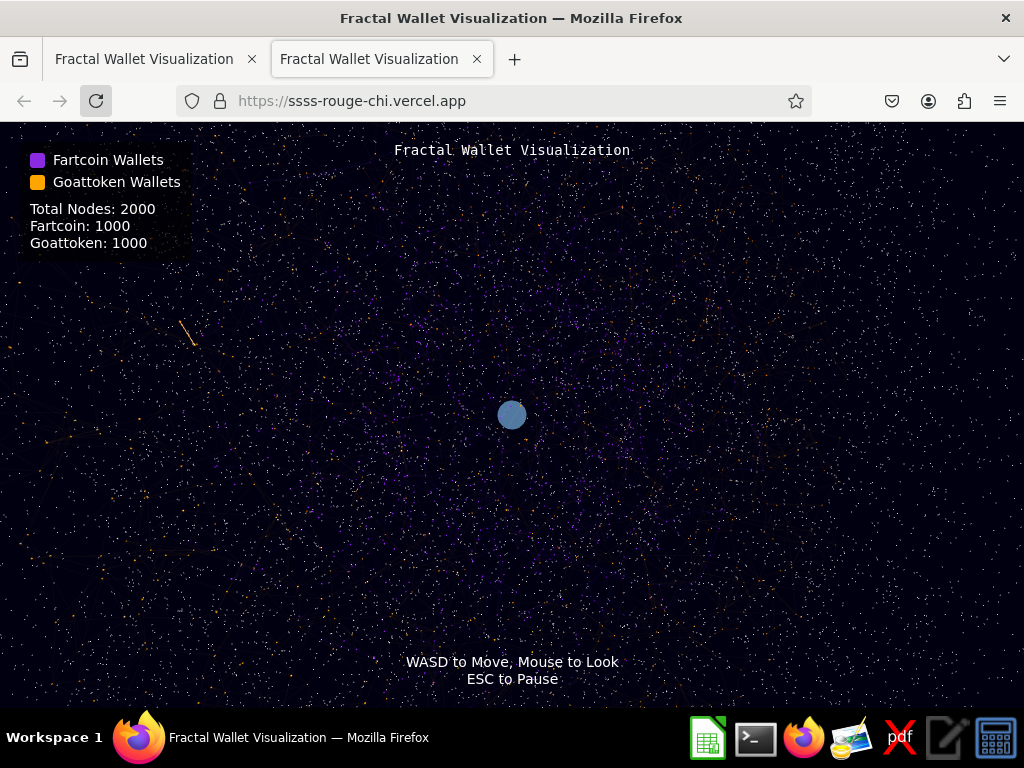
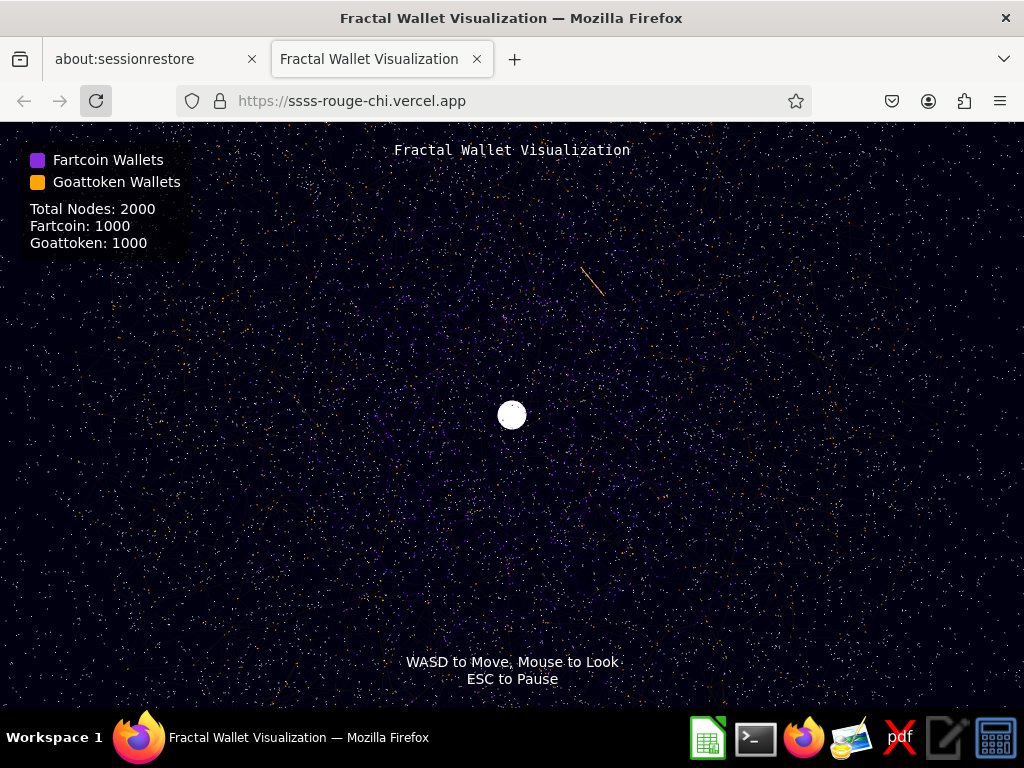
fix: replace flat white core with emissive glowing orb

diff --git a/main.js b/main.js
@@ -2,6 +2,10 @@
 import * as THREE from 'three';
 import { OrbitControls } from 'three/examples/jsm/controls/OrbitControls.js';
 import { FlyControls } from 'three/examples/jsm/controls/FlyControls.js';
+import { EffectComposer } from 'three/examples/jsm/postprocessing/EffectComposer.js';
+import { RenderPass } from 'three/examples/jsm/postprocessing/RenderPass.js';
+import { UnrealBloomPass } from 'three/examples/jsm/postprocessing/UnrealBloomPass.js';
+import { ShaderPass } from 'three/examples/jsm/postprocessing/ShaderPass.js';
 import { loadWalletData } from './dataLoader.js';
 import { generateFractalPosition, generateNodeSize, getWalletColor, initGalaxyContainer, galaxyContainer } from './fractalPlacement.js';
 import { TooltipHandler } from './tooltipHandler.js';
@@ -28,12 +32,20 @@ let stats = {
   totalCount: 0
 };
 
+// Post-processing variables
+let composer;
+let bloomPass;
+const BLOOM_SCENE = 1;
+const bloomLayer = new THREE.Layers();
+bloomLayer.set(BLOOM_SCENE);
+
 // Node connection variables
 let nodeConnectionObjects = null;
 
 // Core orb variables
 let coreOrb = null;
 let coreOrbGlow = null;
+let orbLight = null;
 
 // Initialize the application
 async function init() {
@@ -55,6 +67,22 @@ async function init() {
   renderer.setSize(window.innerWidth, window.innerHeight);
   renderer.setPixelRatio(window.devicePixelRatio);
   document.body.appendChild(renderer.domElement);
+  
+  // Setup post-processing with bloom effect
+  const renderScene = new RenderPass(scene, camera);
+  
+  // Add UnrealBloomPass for the glowing effect
+  bloomPass = new UnrealBloomPass(
+    new THREE.Vector2(window.innerWidth, window.innerHeight),
+    1.5,    // strength
+    0.4,    // radius
+    0.1     // threshold
+  );
+  
+  // Create composer for post-processing
+  composer = new EffectComposer(renderer);
+  composer.addPass(renderScene);
+  composer.addPass(bloomPass);
   
   // Add ambient light
   const ambientLight = new THREE.AmbientLight(0x404040);
@@ -349,7 +377,13 @@ function createConnectionLog(connectionStats) {
 function onWindowResize() {
   camera.aspect = window.innerWidth / window.innerHeight;
   camera.updateProjectionMatrix();
+  
+  // Update renderer and composer sizes
   renderer.setSize(window.innerWidth, window.innerHeight);
+  composer.setSize(window.innerWidth, window.innerHeight);
+  
+  // Update bloom pass resolution
+  bloomPass.resolution.set(window.innerWidth, window.innerHeight);
 }
 
 // This function is replaced by the updated onMouseMove function below
@@ -464,13 +498,18 @@ function animate() {
       
       // Synchronize core orb glow with breathing
       if (coreOrbGlow && coreOrbGlow.material.uniforms && coreOrbGlow.material.uniforms.intensity) {
-        const glowIntensity = 1.5 + Math.sin(t) * 0.5; // 50% intensity variation with higher base
+        const glowIntensity = 2.0 + Math.sin(t) * 0.8; // Increased intensity variation
         coreOrbGlow.material.uniforms.intensity.value = glowIntensity;
         
-        // Also pulse the point light intensity
+        // Pulse the point light intensity with higher values
         const lightChildren = scene.children.filter(child => child instanceof THREE.PointLight);
         if (lightChildren.length > 0) {
-          lightChildren[0].intensity = 3 + Math.sin(t) * 1.5; // Vary between 1.5 and 4.5
+          lightChildren[0].intensity = 10 + Math.sin(t) * 5; // Vary between 5 and 15 for stronger effect
+        }
+        
+        // Also pulse the emissive intensity if available
+        if (coreOrb && coreOrb.material && coreOrb.material.emissiveIntensity !== undefined) {
+          coreOrb.material.emissiveIntensity = 5 + Math.sin(t) * 2; // Vary between 3 and 7
         }
       }
     }
@@ -492,8 +531,8 @@ function animate() {
       updateTransactionPulses();
     }
     
-    // Render the scene
-    renderer.render(scene, camera);
+    // Render the scene with post-processing effects
+    composer.render();
   }
 }
 
@@ -501,32 +540,34 @@ function animate() {
 function createCoreOrb() {
   console.log('Creating central glowing orb...');
   
-  // Create the core orb geometry with higher resolution for smoother appearance
+  // Create the core orb geometry with high resolution for perfect spherical appearance
   const orbGeometry = new THREE.SphereGeometry(200, 64, 64);
   
-  // Create the core orb material with bright white glow
-  const orbMaterial = new THREE.MeshBasicMaterial({
+  // Create the core orb material with MeshStandardMaterial for more realistic lighting
+  const orbMaterial = new THREE.MeshStandardMaterial({
     color: 0xffffff, // Pure white color
     emissive: 0xffffff,
-    emissiveIntensity: 1.0
+    emissiveIntensity: 5,
+    roughness: 0.2,
+    metalness: 1.0,
   });
   
   // Create the core orb mesh
   coreOrb = new THREE.Mesh(orbGeometry, orbMaterial);
   coreOrb.position.set(0, 0, 0);
-  coreOrb.renderOrder = -1; // Ensure it renders behind other elements
+  coreOrb.layers.enable(BLOOM_SCENE); // Set the bloom layer for the orb
   
-  // Add glow via point light
-  const glow = new THREE.PointLight(0xffffff, 3, 2000);
-  glow.position.set(0, 0, 0);
-  scene.add(glow);
+  // Add strong point light at the center to enhance glow
+  orbLight = new THREE.PointLight(0xffffff, 10, 4000);
+  orbLight.position.set(0, 0, 0);
+  scene.add(orbLight);
   
   // Create a larger, softer glow around the orb using shader material
   const glowGeometry = new THREE.SphereGeometry(300, 32, 32);
   const glowMaterial = new THREE.ShaderMaterial({
     uniforms: {
       glowColor: { value: new THREE.Color(0xffffff) },
-      intensity: { value: 1.5 }
+      intensity: { value: 2.0 }
     },
     vertexShader: `
       varying vec3 vNormal;
@@ -547,9 +588,9 @@ function createCoreOrb() {
       
       void main() {
         float depth = 1.0 - min(1.0, length(vPosition) / 400.0);
-        float glow = pow(0.9 - dot(vNormal, vec3(0, 0, 1.0)), 3.0) * intensity;
+        float glow = pow(0.9 - dot(vNormal, vec3(0, 0, 1.0)), 4.0) * intensity;
         
-        gl_FragColor = vec4(glowColor, 0.4) * glow * depth;
+        gl_FragColor = vec4(glowColor, 0.5) * glow * depth;
       }
     `,
     transparent: true,
@@ -561,10 +602,14 @@ function createCoreOrb() {
   coreOrbGlow = new THREE.Mesh(glowGeometry, glowMaterial);
   coreOrb.add(coreOrbGlow);
   
+  // Add ambient light to ensure the orb is always visible
+  const ambientLight = new THREE.AmbientLight(0x404040);
+  coreOrb.add(ambientLight);
+  
   // Add to scene
   scene.add(coreOrb);
   
-  console.log('Core orb created and added to scene with point light glow');
+  console.log('Core orb created and added to scene with advanced lighting and materials');
   return coreOrb;
 }
 
